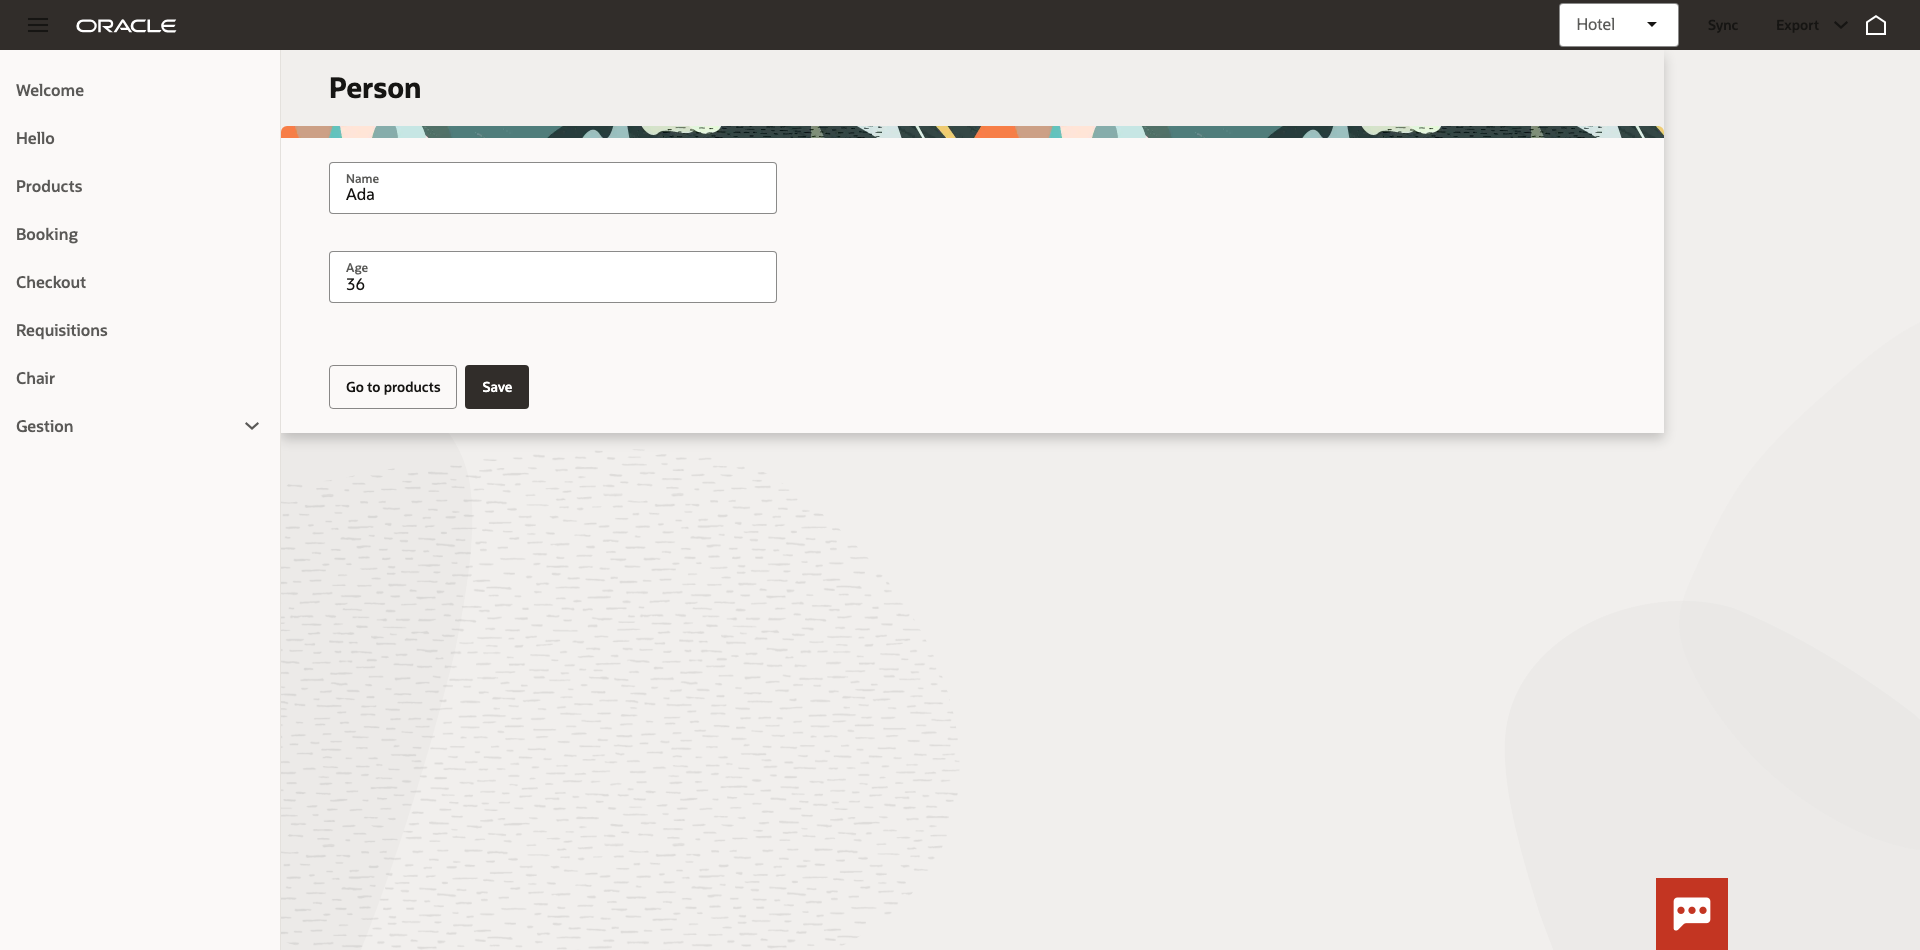
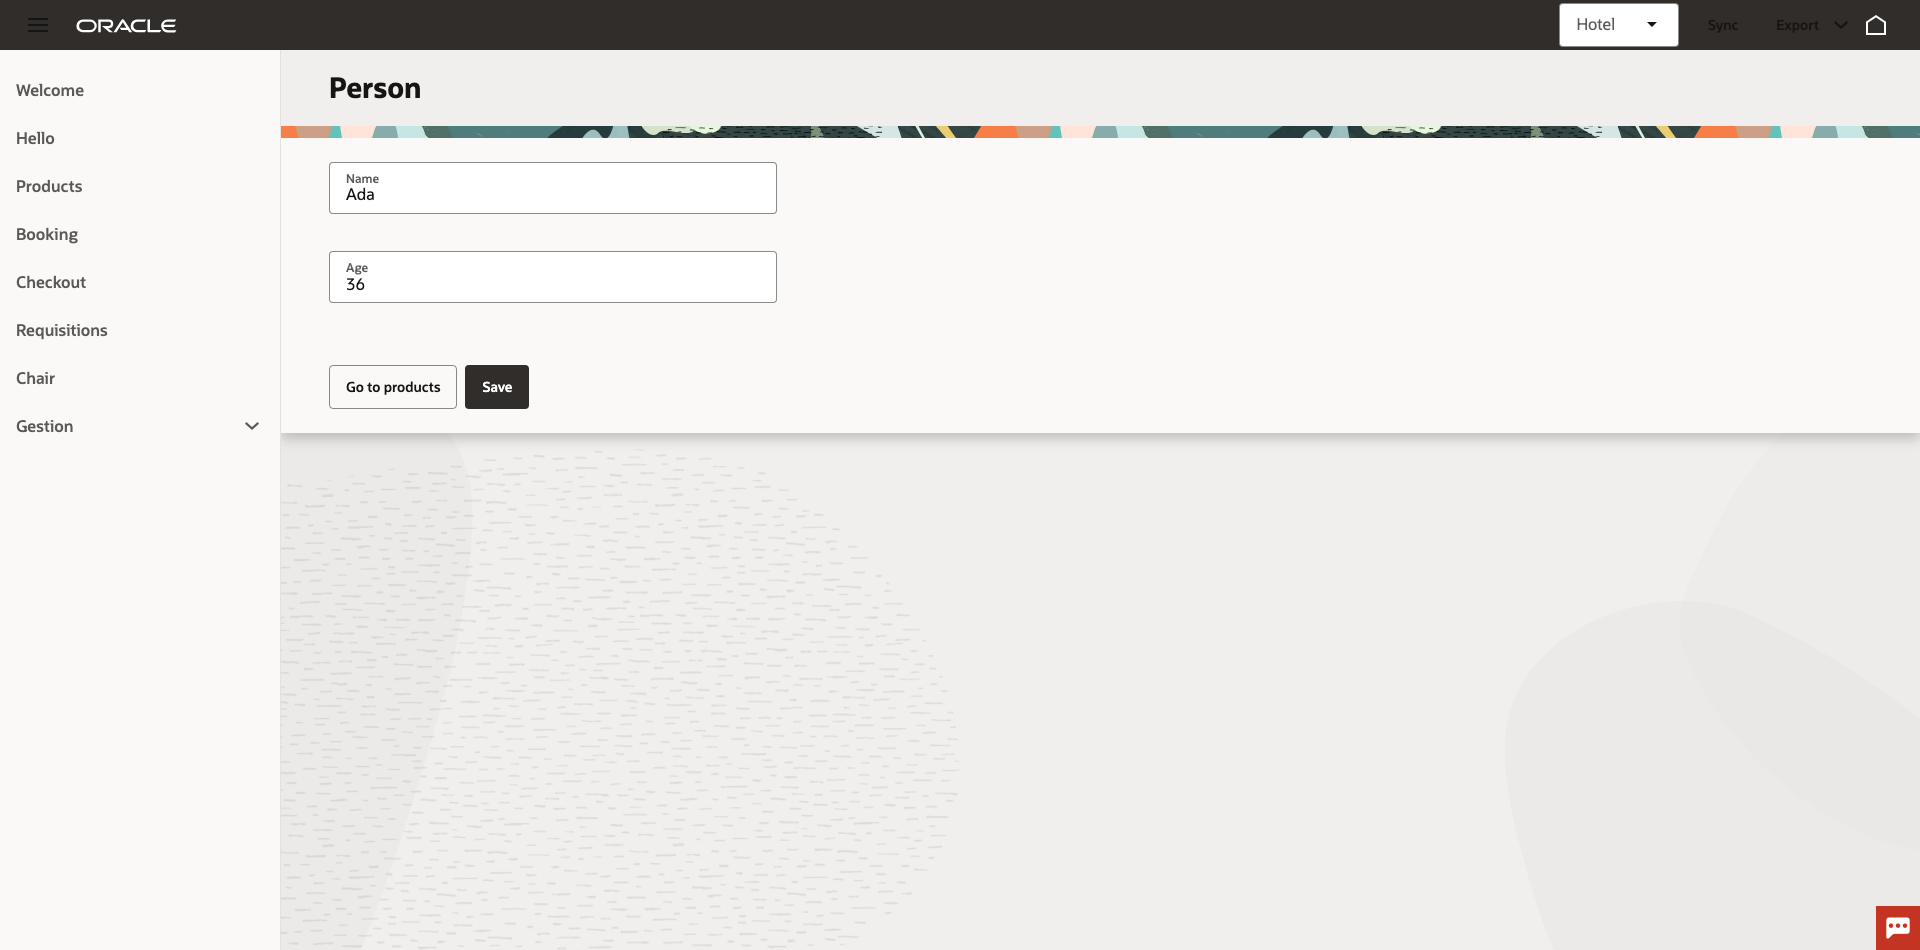
feat(vb): con navigator a la izquierda el formato pasa a edge-to-edge
Con el drawer persistente (HAMBURGUER_MENU) centrar un fixed en el área
restante quedaba raro — el lateral ya lo consume el menú. Ambos chains fuerzan
edgeToEdge (pageStyle + page-layout del shell, que compacta su chat FAB al
borde); los gutters del contenido los ponen las ramas. El anclaje a la caja
del shell queda para las variantes sin drawer.

diff --git a/.dev/vb/mateu-vb/webApps/vbredwoodapp/pages/shell-page-chains/onMateuNavigate.js b/.dev/vb/mateu-vb/webApps/vbredwoodapp/pages/shell-page-chains/onMateuNavigate.js
@@ -171,9 +171,15 @@ define([
       }
       $application.variables.mateuBannerKeys = banners.map((banner) => banner.id);
       // 1.6: anatomía pageWidth del contexto host
-      const pageStyle = bridge.pageStyleOf(host);
+      // con navigator persistente a la izquierda, el formato pasa a edge-to-edge
+      // automáticamente: centrar un fixed en el área restante queda raro (el drawer ya
+      // consume el lateral); el gutter del contenido lo ponen las ramas (12x/6x)
+      const drawerNav = $application.variables.mateuMenuDrawerMode;
+      const pageStyle = drawerNav
+        ? bridge.pageStyleOf({ pageWidth: 'edgeToEdge' })
+        : bridge.pageStyleOf(host);
       // el shell adapta su chrome (p.ej. el chat FAB) al formato de página
-      const pw = (host && host.pageWidth) || 'fixed';
+      const pw = drawerNav ? 'edgeToEdge' : ((host && host.pageWidth) || 'fixed');
       $application.variables.mateuShellPageLayout = pw === 'fixed' ? 'fixedWidth' : pw;
       $application.variables.mateuPageMaxWidth = pageStyle.maxWidth;
       $application.variables.mateuPageMargin = pageStyle.margin;

diff --git a/.dev/vb/mateu-vb/webApps/vbredwoodapp/flows/main/pages/main-start-page-chains/runMateuAction.js b/.dev/vb/mateu-vb/webApps/vbredwoodapp/flows/main/pages/main-start-page-chains/runMateuAction.js
@@ -138,7 +138,8 @@ define([
       const integratedHeader = !!($application.variables.mateuWizard || welcome
         || overviewProjection || listingSummary || $application.variables.mateuFoldout);
       $application.variables.mateuPageHeader = integratedHeader ? null : { title: summary.title };
-      const pwAfter = (hostAfter && hostAfter.pageWidth) || 'fixed';
+      const pwAfter = $application.variables.mateuMenuDrawerMode
+        ? 'edgeToEdge' : ((hostAfter && hostAfter.pageWidth) || 'fixed');
       $application.variables.mateuShellPageLayout = pwAfter === 'fixed' ? 'fixedWidth' : pwAfter;
       $application.variables.mateuDirty = false;
 

diff --git a/.dev/vb/DESIGN-NOTES.md b/.dev/vb/DESIGN-NOTES.md
@@ -524,7 +524,13 @@ fórmula (`margin: 0 max(24px, calc((100vw - 1536px)/2 + 64px)) 0 auto`, tope 14
 nace exactamente donde acaba el contenido, como en FA); (2) fuera la clase
 `oj-web-applayout-max-width` del wrapper del starter — capaba el área a 1440 y rompía
 cualquier fórmula viewport-relativa. Verificado a 1440/1920/2400; en edgeToEdge el FAB queda
-en el borde derecho de la página.
+en el borde derecho de la página. **Regla drawer ⇒ edge-to-edge (2026-07-25)**: con navigator
+persistente a la izquierda (HAMBURGUER_MENU) el formato pasa a edge-to-edge AUTOMÁTICAMENTE
+(ambos chains ignoran el pageWidth del wire y fuerzan edgeToEdge en pageStyle y en el
+page-layout del shell): centrar un fixed en el área restante quedaba raro — el drawer ya
+consume el lateral. Los gutters del contenido los siguen poniendo las ramas (12x/6x). El
+anclaje del borde derecho a la caja del shell (párrafo anterior) queda para las variantes
+SIN drawer (tabs/topbar).
 
 ## Arquetipos Welcome / General Overview / Item Overview — HECHOS (pendiente de verificación)
 
